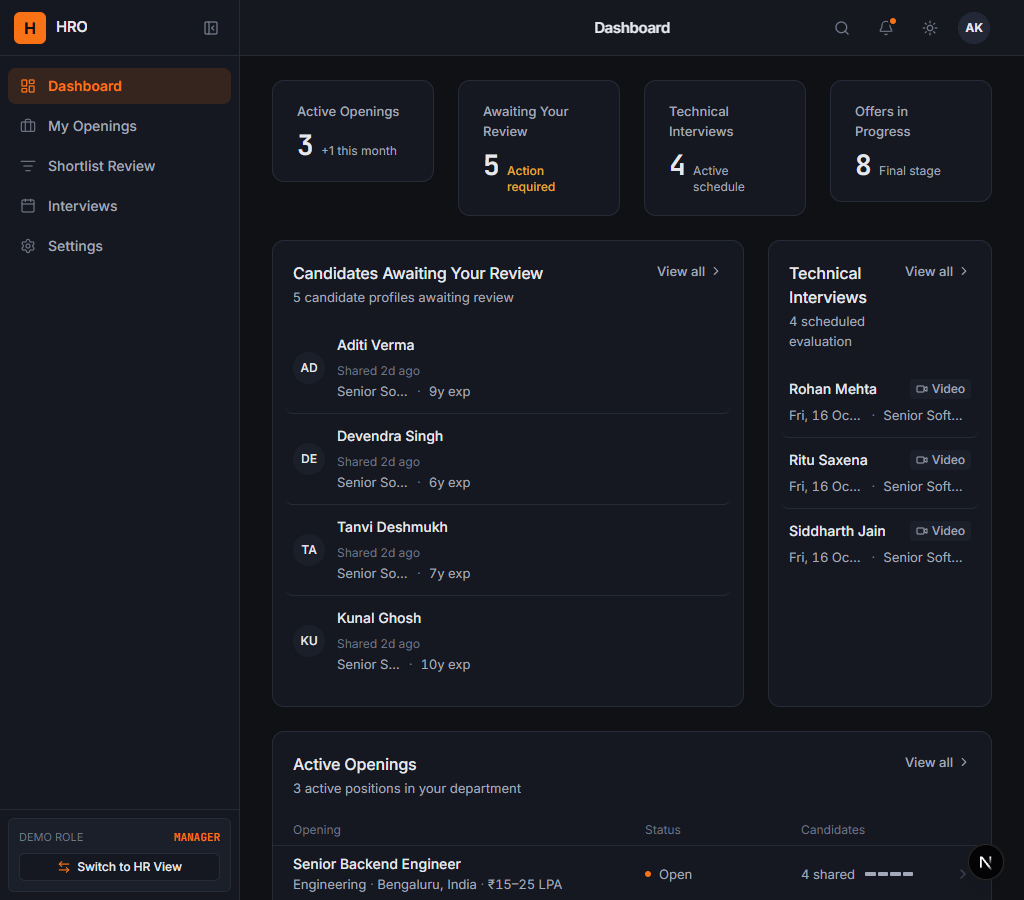
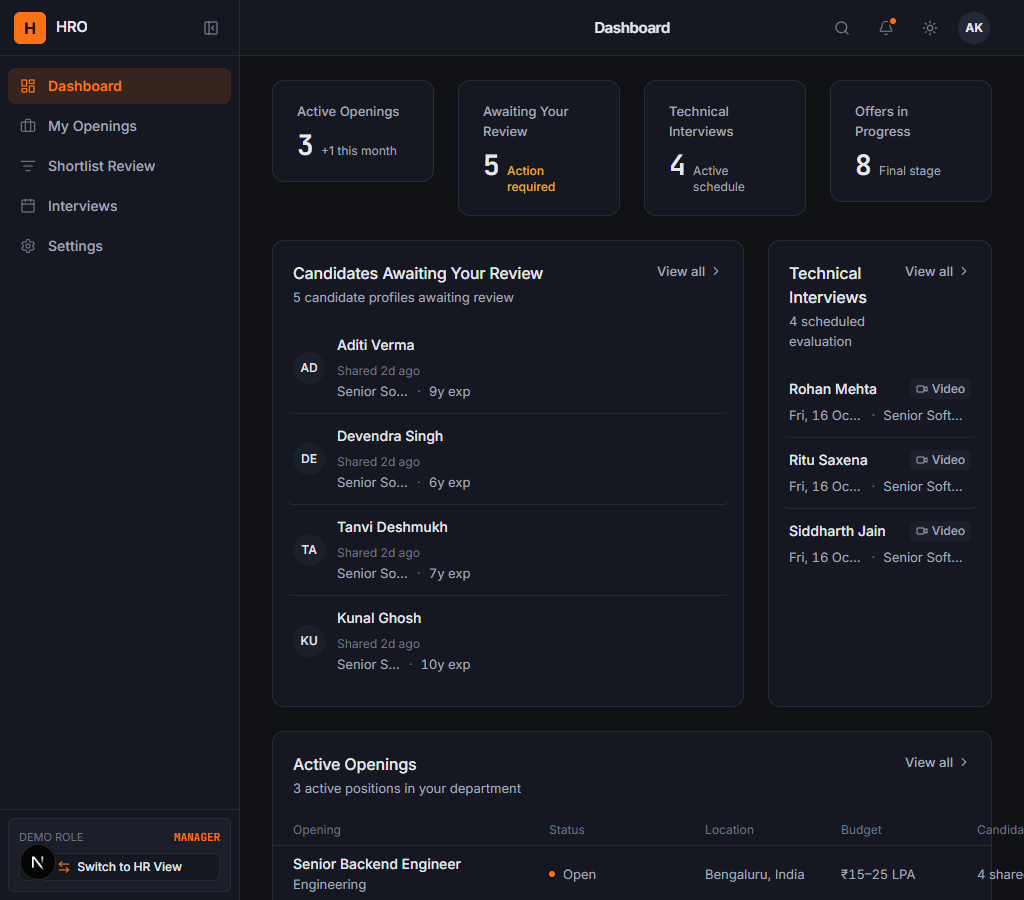
fix(hydration): align opening-row responsive breakpoint to lg and purge stale SSR chunks

diff --git a/components/hro/opening-row.tsx b/components/hro/opening-row.tsx
@@ -28,14 +28,14 @@ export function OpeningHeaderRow({ className }: { className?: string }) {
     <div
       className={cn(
         'hidden sm:grid h-[32px] items-center px-5 border-b border-border text-[12px] leading-[16px] text-text-subtle font-normal select-none',
-        'grid-cols-[minmax(0,1fr)_140px_130px_24px] xl:grid-cols-[minmax(240px,2fr)_140px_120px_120px_120px_24px] gap-4',
+        'grid-cols-[minmax(0,1fr)_140px_130px_24px] lg:grid-cols-[minmax(240px,2fr)_140px_120px_120px_120px_24px] gap-4',
         className
       )}
     >
       <div>Opening</div>
       <div>Status</div>
-      <div className="hidden xl:block">Location</div>
-      <div className="hidden xl:block">Budget</div>
+      <div className="hidden lg:block">Location</div>
+      <div className="hidden lg:block">Budget</div>
       <div>Candidates</div>
       <div aria-hidden="true" />
     </div>
@@ -66,7 +66,7 @@ export function OpeningRow({
         'group relative grid min-h-[56px] h-[56px] items-center px-5 border-b border-border last:border-b-0 transition-colors',
         'hover:bg-surface-2 active:bg-surface-3',
         'focus-visible:outline-none focus-visible:ring-2 focus-visible:ring-accent focus-visible:ring-inset',
-        'grid-cols-[minmax(0,1fr)_24px] sm:grid-cols-[minmax(0,1fr)_140px_130px_24px] xl:grid-cols-[minmax(240px,2fr)_140px_120px_120px_120px_24px] gap-4',
+        'grid-cols-[minmax(0,1fr)_24px] sm:grid-cols-[minmax(0,1fr)_140px_130px_24px] lg:grid-cols-[minmax(240px,2fr)_140px_120px_120px_120px_24px] gap-4',
         className
       )}
     >
@@ -77,11 +77,11 @@ export function OpeningRow({
         </span>
 
         <div className="truncate text-[13px] leading-[20px] text-text-muted">
-          {/* Desktop subline (>=1280px): Department only */}
-          <span className="hidden xl:inline truncate">{opening.department}</span>
+          {/* Desktop subline (>=1024px): Department only */}
+          <span className="hidden lg:inline truncate">{opening.department}</span>
 
-          {/* Responsive subline (<1280px and >=640px): Department · Location · Budget */}
-          <span className="hidden sm:inline xl:hidden truncate">
+          {/* Responsive subline (<1024px and >=640px): Department · Location · Budget */}
+          <span className="hidden sm:inline lg:hidden truncate">
             {opening.department} <span className="text-text-subtle">·</span> {opening.location}{' '}
             <span className="text-text-subtle">·</span>{' '}
             <span className="tabular-nums">{budgetText}</span>
@@ -118,13 +118,13 @@ export function OpeningRow({
         )}
       </div>
 
-      {/* 3. Location Cell (Desktop >=1280px only) */}
-      <div className="hidden xl:block min-w-0 truncate text-[13px] leading-[20px] text-text-muted">
+      {/* 3. Location Cell (Desktop >=1024px only) */}
+      <div className="hidden lg:block min-w-0 truncate text-[13px] leading-[20px] text-text-muted">
         {opening.location}
       </div>
 
-      {/* 4. Budget Cell (Desktop >=1280px only) */}
-      <div className="hidden xl:block min-w-0 truncate text-[13px] leading-[20px] text-text-muted tabular-nums">
+      {/* 4. Budget Cell (Desktop >=1024px only) */}
+      <div className="hidden lg:block min-w-0 truncate text-[13px] leading-[20px] text-text-muted tabular-nums">
         {budgetText}
       </div>
 
